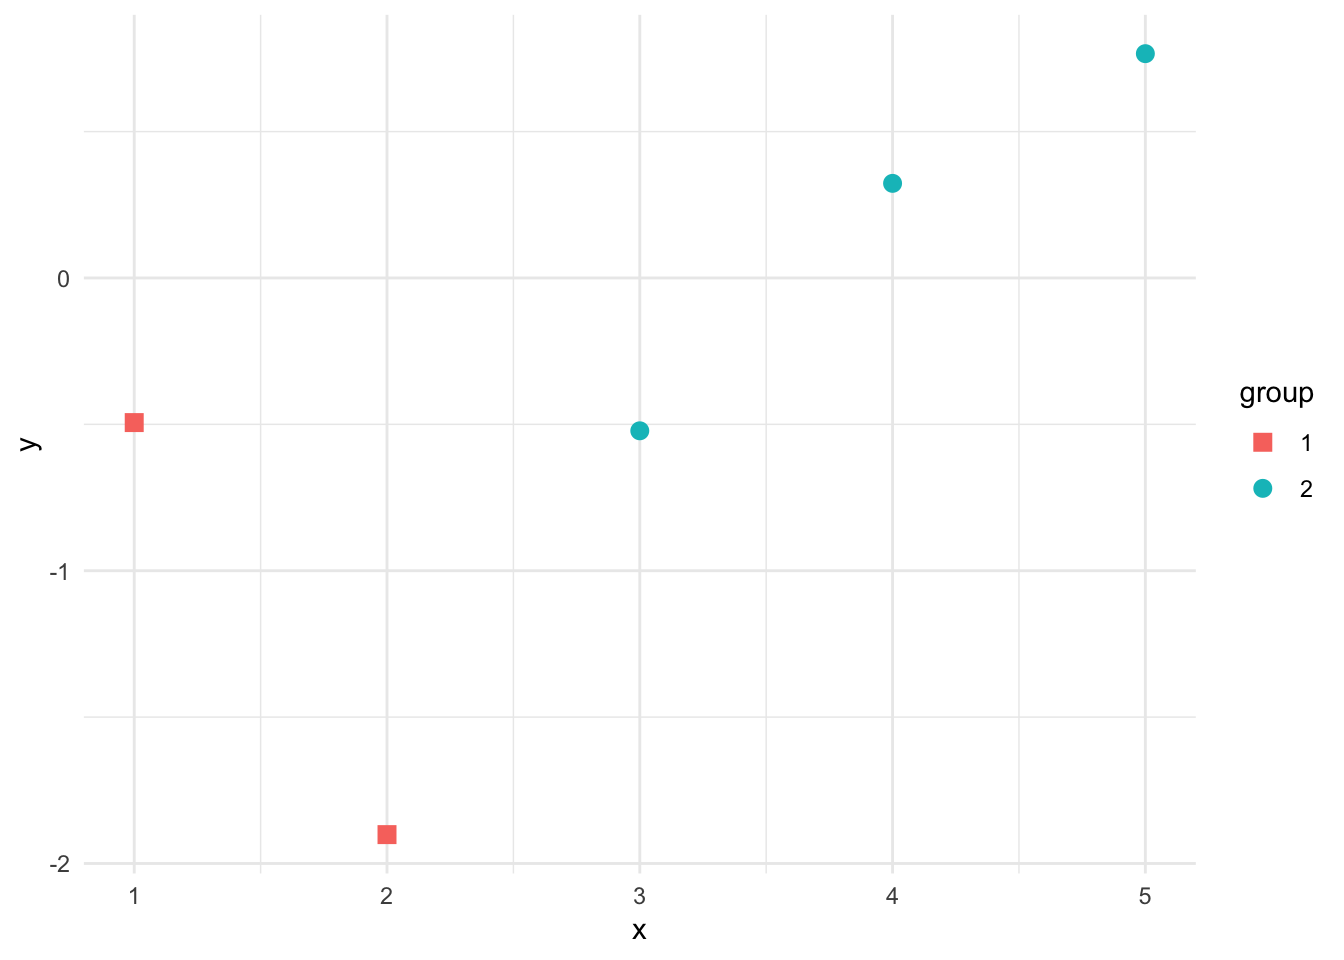
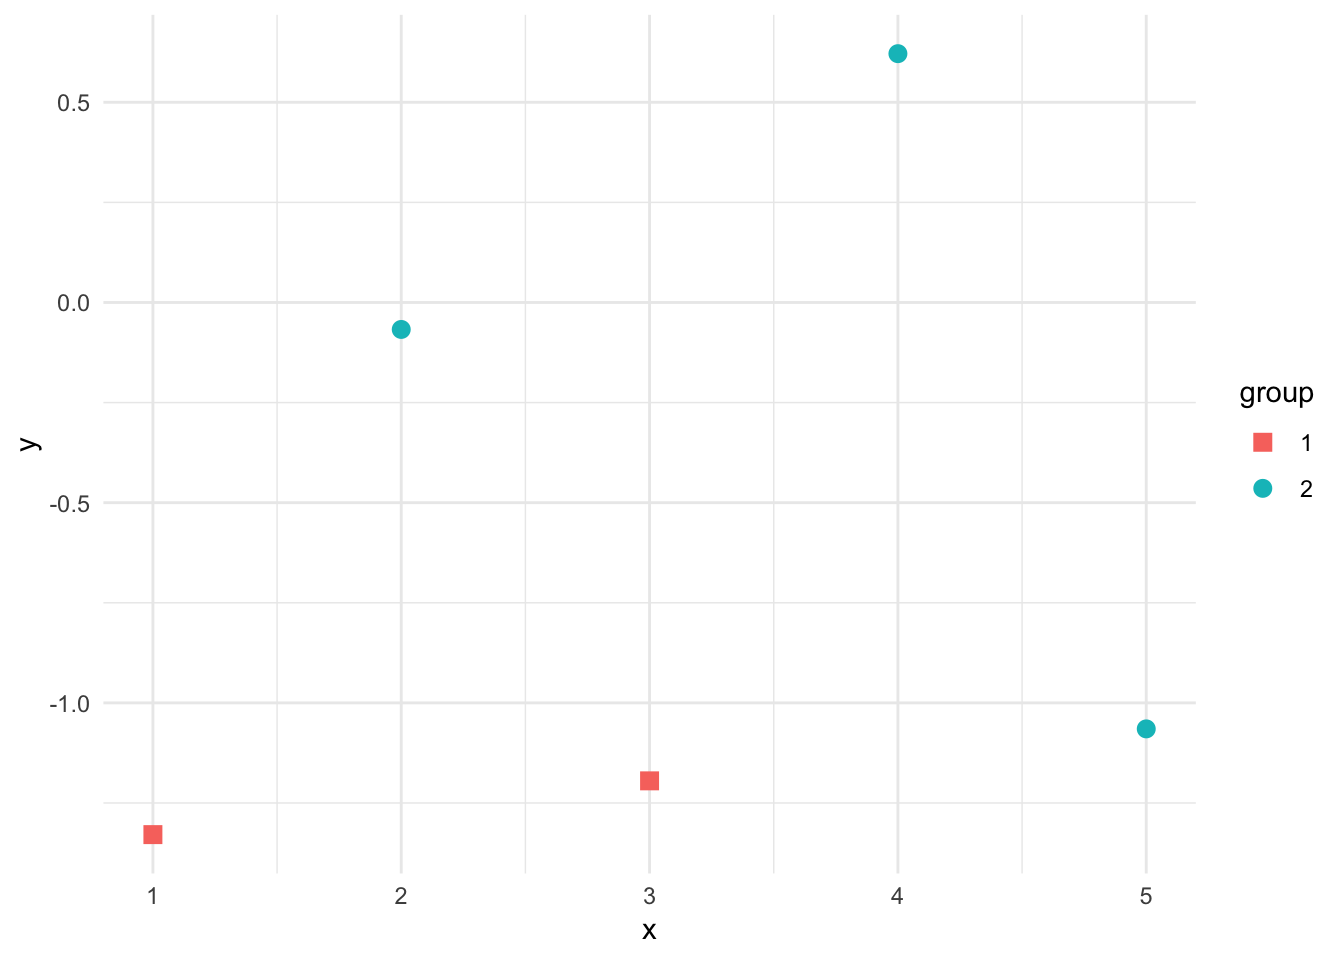
Clean up code

diff --git a/public/gallery/index.html b/public/gallery/index.html
@@ -75,13 +75,39 @@
         
             
             <div>
-                <img src="/gallery/images/900-3.jpg" alt="900-3.jpg" />
+                <img src="/gallery/images/900-6.jpg" alt="900-6.jpg" />
+            </div>
+            
+        
+            
+            <div>
+                <img src="/gallery/images/900-4.jpg" alt="900-4.jpg" />
             </div>
             
         
             
             <div>
                 <img src="/gallery/images/900-5.jpg" alt="900-5.jpg" />
+            </div>
+            
+        
+            
+            <div>
+                <img src="/gallery/images/900-2.jpg" alt="900-2.jpg" />
+            </div>
+            
+        
+            
+        
+            
+            <div>
+                <img src="/gallery/images/900-7.jpg" alt="900-7.jpg" />
+            </div>
+            
+        
+            
+            <div>
+                <img src="/gallery/images/900-3.jpg" alt="900-3.jpg" />
             </div>
             
         
@@ -94,32 +120,6 @@
             
             <div>
                 <img src="/gallery/images/900-1.jpg" alt="900-1.jpg" />
-            </div>
-            
-        
-            
-        
-            
-            <div>
-                <img src="/gallery/images/900-2.jpg" alt="900-2.jpg" />
-            </div>
-            
-        
-            
-            <div>
-                <img src="/gallery/images/900-7.jpg" alt="900-7.jpg" />
-            </div>
-            
-        
-            
-            <div>
-                <img src="/gallery/images/900-4.jpg" alt="900-4.jpg" />
-            </div>
-            
-        
-            
-            <div>
-                <img src="/gallery/images/900-6.jpg" alt="900-6.jpg" />
             </div>
             
         

diff --git a/content/post/2019-03-24-point-shapes-in-ggplot.html b/content/post/2019-03-24-point-shapes-in-ggplot.html
@@ -21,10 +21,9 @@ draft: false
 <p>By default, <code>shape = 19</code> (a filled circle). You can change the number to plot different shapes, i.e. <code>geom_point(shape = x)</code>. If you want to change point shapes based on a grouping variable, then first set the shape with the grouping variable in <code>geom_point</code> and then use <code>scale_shape_manual</code> to choose the desired shapes (optional). Below is an example.</p>
 <pre class="r"><code>library(ggplot2)
 
-x = 1:5
-y = rnorm(5)
-group = as.factor(c(1, 1, 2, 2, 2))
-dt = data.frame(x, y, group)
+dt = data.frame(x = 1:5, 
+                y = rnorm(5), 
+                group = as.factor(c(1, 2, 1, 2, 2)))
 
 ggplot(dt, aes(x, y)) +
   geom_point(aes(shape = group, color = group), size = 3) + 

diff --git a/public/post/point-shape-options-in-ggplot/index.html b/public/post/point-shape-options-in-ggplot/index.html
@@ -89,10 +89,9 @@
 <p>By default, <code>shape = 19</code> (a filled circle). You can change the number to plot different shapes, i.e. <code>geom_point(shape = x)</code>. If you want to change point shapes based on a grouping variable, then first set the shape with the grouping variable in <code>geom_point</code> and then use <code>scale_shape_manual</code> to choose the desired shapes (optional). Below is an example.</p>
 <pre class="r"><code>library(ggplot2)
 
-x = 1:5
-y = rnorm(5)
-group = as.factor(c(1, 1, 2, 2, 2))
-dt = data.frame(x, y, group)
+dt = data.frame(x = 1:5, 
+                y = rnorm(5), 
+                group = as.factor(c(1, 2, 1, 2, 2)))
 
 ggplot(dt, aes(x, y)) +
   geom_point(aes(shape = group, color = group), size = 3) + 
